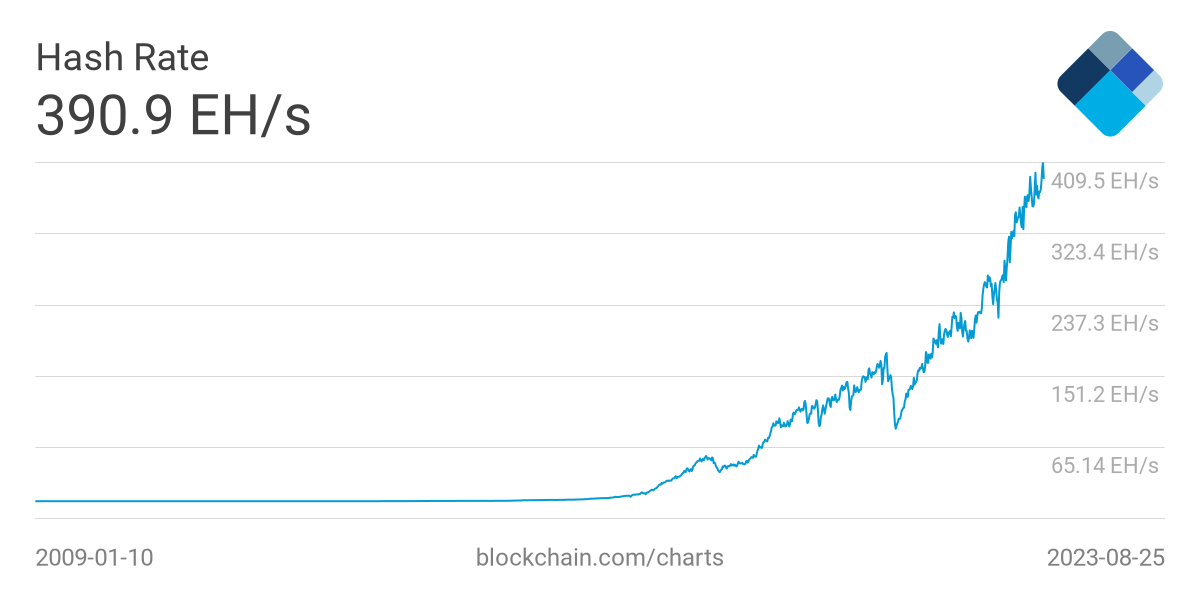
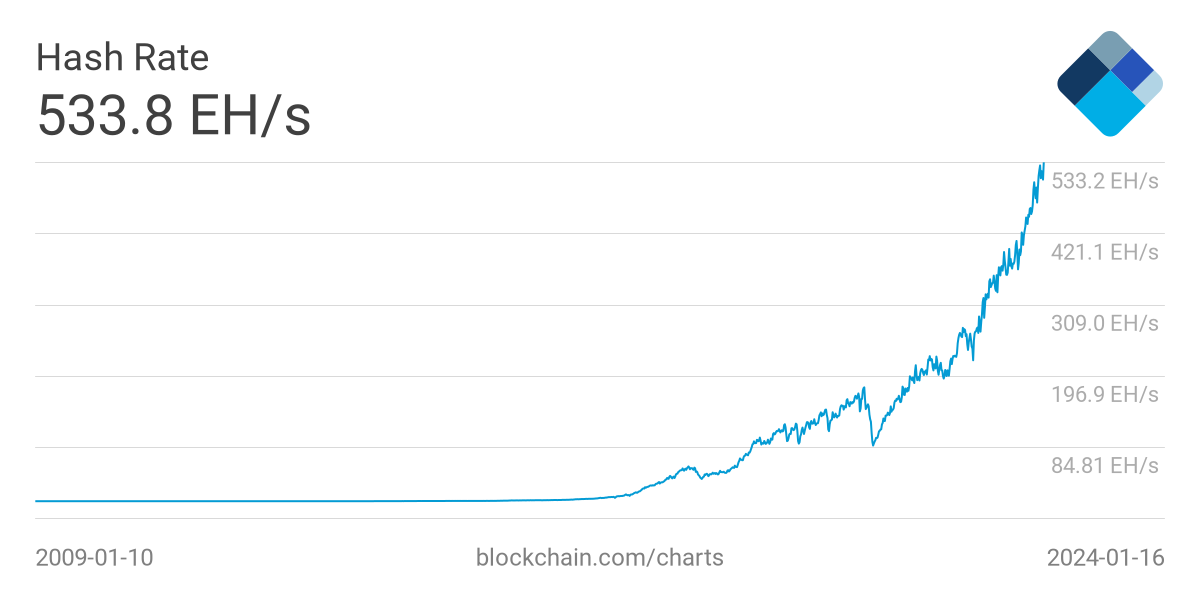
Updated numbers and charts in overview.html

diff --git a/slides/overview.html b/slides/overview.html
@@ -174,8 +174,8 @@ According to Jan Lansky ([source](http://si-journal.org/index.php/JSI/article/vi
 
 
 ## Cryptocurrencies
-- There are 8,906 existing cryptocurrencies (that have value) <!-- change each semester -->
-  - As per [investing.com](https://www.investing.com/crypto/currencies) (as of Aug 27, 2023)
+- There are 8,757 existing cryptocurrencies (that have value) <!-- change each semester -->
+  - As per [investing.com](https://www.investing.com/crypto/currencies) (as of Jan 18, 2024)
 - One estimate is that 100 new ones are created *each day*
   - Most don't make investing.com's list
 - Some are [Ponzi schemes](https://en.wikipedia.org/wiki/Ponzi_scheme), some are [pyramid schemes](https://en.wikipedia.org/wiki/Ponzi_scheme), and some are worthwhile
@@ -204,7 +204,7 @@ According to Jan Lansky ([source](http://si-journal.org/index.php/JSI/article/vi
 <!-- .slide: class="right-float-img-nb-300" -->
 ## A note about numbers...
 [![](../slides/images/overview/bitcoin-coin.webp)](https://commons.wikimedia.org/wiki/File:One_bitcoin_sitting_atop_bundles_of_US_$100_notes.png)
-- The data in this slide set was all updated for the current semester (as of Aug 27, 2023) <!-- change each semester -->
+- The data in this slide set was all updated for the current semester (as of Jan 18, 2024) <!-- change each semester -->
 - Bitcoin is highly volatile (the value changes so fast) that it is likely to be quite different in a day or two
   - Indeed, the value of a Bitcoin changed *during* the updating of the numbers!
     - So you will see (slightly) different values for the price, for example
@@ -290,8 +290,8 @@ From [blockchain.com](https://blockchain.com); BTC peaked at $68,789 in November
 - The first block was the "genesis block"
 - Each successive block includes the SHA-256 hash of the previous block
   - Thus, you can't make a change to a previous block without changing all successive blocks
-- The current blockchain (as of Aug 27, 2023) is  805,090 blocks (aka 'height'; [source](https://bitinfocharts.com/))
-  - About 494 Gb in size ([source](https://www.blockchain.com/charts/blocks-size))
+- The current blockchain (as of Jan 18, 2024) is  826,343 blocks (aka 'height'; [source](https://bitinfocharts.com/))
+  - About 530 Gb in size ([source](https://www.blockchain.com/charts/blocks-size))
 <!-- change each semester (be sure to divide that number by 1024) -->
 
 
@@ -363,21 +363,20 @@ From [blockchain.com](https://blockchain.com); BTC peaked at $68,789 in November
 ## Difficulty
 - First target ($ft$): 00000000ffff00000000000000 00000000000000000000000000000000000000
 <!-- formula: ft=26959535291011309493156476344723991336010898738574164086137773096960 -->
-- The current target ($ct$) is  0000000000000000000561020000000 000000000000000000000000000000000
-<!-- formula: ct=515199788182065911307653755120147792390991404454641664 -->
-  - As of Aug 27, 2023 and can be found [here](http://learnmeabitcoin.com/glossary/target)
-    - That site is almost 5,000 blocks behind...
+- The current target ($ct$) is 00000000000000000003d8690000000 000000000000000000000000000000000
+<!-- formula: ct=368311566122123513513592411007997767500471904222838784 -->
+  - As of Jan 18, 2024 and derived from [here](https://blockstream.info)
   <!-- change each semester -->
-  - The new target is harder than the old: specifically $ft/ct$ = 52,328,312,063,444 times harder (that's 52.3 *trillion*)
-    - Actually it's about 55.6 trillion now<!-- set this value to diff, such as via the formula: diff=55.62*10^12 -->
+  - The new target is harder than the old: specifically $ft/ct$ = 73,197,634,206,448 times harder (that's 73.2 *trillion*)
 - This number is the bitcoin *difficulty*, and the latest value can be found [here](https://www.coinwarz.com/mining/bitcoin/difficulty-chart)
+<!-- formula: diff=ft/ct -->
 
 
 
 ## Current hash difficulty
 - For the first target, a random nonce had a 1 in 4.3 billion chance of success
-- The current target is 55.6 trillion times harder
-  - A random nonce now has a 1 in $2.39 \times 10^{23}$ chance of success
+- The current target is 73.2 trillion times harder
+  - A random nonce now has a 1 in $3.14 \times 10^{23}$ chance of success
     <!-- change each semester; formula: chance=diff*2^32 -->
 
 
@@ -387,9 +386,11 @@ From [blockchain.com](https://blockchain.com); BTC peaked at $68,789 in November
 ![](https://upload.wikimedia.org/wikipedia/commons/4/48/Gigabyte_GTX_970_Windforce.jpg)
 - A typical CPU can do maybe 10 Mhash/sec (million hashes per second)
   - A very fast CPU today could do about 25 Mhash/sec
-  - A [$1,500 video card](https://www.amazon.com/gp/product/B07GHXQTGZ/) today could do about 800 Mhash/sec (estimate based on [this](https://en.bitcoin.it/wiki/Non-specialized_hardware_comparison#Nvidia) and [this](https://gpu.userbenchmark.com/Compare/Nvidia-RTX-2080-vs-Nvidia-GeForce-GTX-590-SLI-Disabled/4026vsm8041))
-- Consider a 1 in $2.39 \times 10^{23}$ chance of success
-- To generate $2.39 \times 10^{23}$ hashes at 800 million (8 Mhash) per second on a fast graphics card, this will take 9.5 *million years*
+  - A [$1,500 video card](https://www.amazon.com/gp/product/B07GHXQTGZ/) today could do about 1 Ghash/sec (estimate based on [this](https://en.bitcoin.it/wiki/Non-specialized_hardware_comparison#Nvidia) and [this](https://gpu.userbenchmark.com/Compare/Nvidia-RTX-2080-vs-Nvidia-GeForce-GTX-590-SLI-Disabled/4026vsm8041))
+    - That's 40 times faster than a CPU
+- Consider a 1 in $3.14 \times 10^{23}$ chance of success
+- To generate $3.14 \times 10^{23}$ hashes at 800 million (8 Mhash) per second on a fast graphics card, this will take 12.5 *million years*
+  - A CPU is 40 times longer: about 500 *million years*
   <!-- change each semester; formula: gpuyears=chance/(365.25*24*60*60*800*10^6) -->
 
 
@@ -399,7 +400,7 @@ From [blockchain.com](https://blockchain.com); BTC peaked at $68,789 in November
 ![](https://upload.wikimedia.org/wikipedia/commons/6/6b/Electricity_pylons2.jpg)
 - A graphics card uses about 400 W (watts) (estimated from [here](https://en.bitcoin.it/wiki/Non-specialized_hardware_comparison#Nvidia))
 - Electricity in Charlottesville costs 11.04 cents per kW/h (as per [here](https://www.electricitylocal.com/states/virginia/charlottesville/))
-- This would cost about 3.7 billion dollars <!-- change each semester; formula: elecost=gpuyears*400/1000*24*365.25*0.1104 -->
+- This would cost about 4.8 billion dollars <!-- change each semester; formula: elecost=gpuyears*400/1000*24*365.25*0.1104 -->
 
 
 
@@ -451,12 +452,12 @@ From [blockchain.com](https://blockchain.com); BTC peaked at $68,789 in November
 
 
 ## Reward per block
-- The current reward (as of Aug 27, 2023) is 6.25 BTC
+- The current reward (as of Jan 18, 2024) is 6.25 BTC
   <!-- change each semester -->
   - Plus transaction fees of around 0.1 BTC or so
-  - The estimated date when it drops to 3.125 BTC is April 2024 ([source](https://www.bitcoinblockhalf.com/))
-- At a price of about $26k per block ([source](https://www.coindesk.com/price/bitcoin)), 6.35 BTC is  about $166k for a properly signed block   <!-- change each semester --><!-- formula: reward=166*1000 -->
-  - But if it costs almost 4 billion dollars in electricity, perhaps it's not all that worth it
+  - The estimated date when it drops to 3.125 BTC is late April 2024 ([source](https://www.bitcoinblockhalf.com/))
+- At a price of about $41k per block ([source](https://www.coindesk.com/price/bitcoin)), 6.35 BTC is about $256k for a properly signed block   <!-- change each semester -->
+  - But if it costs almost 5 billion dollars in electricity, perhaps it's not all that worth it
   - Unless you use somebody else's electricity...
 
 
@@ -481,7 +482,7 @@ From [blockchain.com](https://blockchain.com); BTC peaked at $68,789 in November
 ## Hashes per second
 From [blockchain.com](https://www.blockchain.com/charts/hash-rate), and for the entire Bitcoin network; E = exa = $10^{18}$
 <!-- change each semester -->
-<!-- formula: hashrate=390.9*10^18 -->
+<!-- formula: hashrate=534*10^18 -->
 ![hashes per second](images/timely/btc-hashes-per-sec.webp)
 
 
@@ -491,7 +492,7 @@ From [blockchain.com](https://www.blockchain.com/charts/hash-rate), and for the 
 ![](https://m.media-amazon.com/images/I/61WsmRwaOaL._AC_SL1000_.jpg)
 - A whole industry has sprung up: you can find the hardware online (such as [here](https://www.bitcoinmining.com/bitcoin-mining-hardware/))
 - These devices are much faster and use much less electricity
-- Consider the [DragonX AntMiner S19](https://www.amazon.com//dp/B08ZNMGKZ1/), which costs `$`1,200 (as of Aug 27, 2023)
+- Consider the [DragonX AntMiner S19](https://www.amazon.com//dp/B08ZNMGKZ1/), which costs `$`1,200 (as of Jan 18, 2024)
   - It can compute 90 Thash/sec (tera), or $90 \ast 10^{12}=9 \ast 10^{13}$ hash/sec
   - I don't believe their numbers that they posted at that link, though
 
@@ -510,40 +511,40 @@ From [blockchain.com](https://www.blockchain.com/charts/hash-rate), and for the 
 ## [DragonX AntMiner S19](https://www.amazon.com/dp/B08ZNMGKZ1) analysis
 <!-- change each semester -->
 - We know that:
-  - The current hash rate is about 391 EH/s
-  - Blocks take about 10 minutes to process (actually about 12m 6s right now ([source](https://bitinfocharts.com/)))
+  - The current hash rate is about 534 EH/s
+  - Blocks take about 10 minutes to process (actually about 9m 56s right now ([source](https://bitinfocharts.com/)))
   - The [DragonX AntMiner S19](https://www.amazon.com/dp/B08ZNMGKZ1) claims to hash 90 TH/s <!-- formula: minerrate=90*10^12 -->
-- 391 exa / 90 tera = $391 \cdot 10^{18} / 90 \cdot 10^{12} = 4.34 \cdot 10^{6}$ or 4 million <!-- formula: blockreward=hashrate/minerrate -->
-- Thus, you would expect to get one 4-millionth of a block's reward in a pooled setup <!-- formula: profitperblock=reward/blockreward -->
-- At `$`166 per block, that's about 3.8 *cents* per block
+- 534 exa / 90 tera = $534 \cdot 10^{18} / 90 \cdot 10^{12} = 5.93 \cdot 10^{6}$ or about 6 million <!-- formula: blockreward=hashrate/minerrate -->
+- Thus, you would expect to get one 6-millionth of a block's reward in a pooled setup <!-- formula: profitperblock=reward/blockreward -->
+- At `$`256 per block, that's about 4.3 *cents* per block
 - (And we aren't counting electricity here)
 
 
 
 ## [DragonX AntMiner S19](https://www.amazon.com/dp/B08ZNMGKZ1) analysis
 <!-- change each semester -->
-- At `$`166 per block, that's about 3.8 cents per block
-  - Which is $5.50 per day <!-- formula: profitperday=profitperblock*24*6 -->
+- At `$`256 per block, that's about 4.3 cents per block
+  - Which is $6.22 per day <!-- formula: profitperday=profitperblock*24*6 -->
     - This assumes 10 minute blocks; it's a less with 12m6s blocks
-  - You will make back your initial investment of `$`1,200 (plus tax) 220 days
-    - That's 7.3 months
+  - You will make back your initial investment of `$`1,200 (plus tax) 192 days <!-- formula: payoffdays=1200/profitperday -->
+    - That's 6.5 months
 - This assumes that the numbers don't change!
   - And that you aren't paying for electricity
-  - And we know the reward per block will go down in April of 2024...
+  - And we know the reward per block will go down in late April of 2024...
 - There is also [one available](https://www.amazon.com/dp/B0CCK4RDJF/) that mines twice times as fast but costs 3.5 times as much, but uses less power
 
 
 
 ## [DragonX AntMiner S19](https://www.amazon.com/dp/B08ZNMGKZ1) analysis
 <!-- change each semester -->
-- You will make $5.50 in BTC per day
+- You will make $6.22 in BTC per day
 - But... electricity is not free
 - Stated power usage: 3,250 W or 3.25 kW
   - Over 24 hours that's $24 * 3.25 = 78$ kWh
   - At Charlottesville's rate of 11.04&cent; per kWh, that's `$`8.61 per day
     - About `$`260 per month
-- So your total daily profit is: `$`5.50 - `$`8.61 or
-  - *Negative* `$`3.11 cents per day!
+- So your total daily profit is: `$`6.22 - `$`8.61 or
+  - *Negative* `$`2.39 cents per day!
 
 
 

diff --git a/slides/images/timely/readme.html b/slides/images/timely/readme.html
@@ -64,10 +64,10 @@
 </ul>
 <p>From the <a href="../../overview.html#/">overview slide set</a>. These should be exported as svg if possible; if not, then 1200x600 rasterized and converted to webp (running <code>make</code> will covert .png files to .webp).</p>
 <ul>
-<li>Bitcoin price, all-time / raw values (<code>btc-price.webp</code>), from <a href="https://www.blockchain.com/charts/market-price">blockchain.com</a>: from <a href="btc-price-2022-01-17.png">2022-01-17</a>, <a href="btc-price-2022-08-23.webp">2022-08-23</a>, <a href="btc-price-2023-01-17.webp">2023-01-17</a>, <a href="btc-price.webp">2023-08-27</a></li>
-<li>Bitcoin difficulty, all-time / raw values (<code>btc-difficulty-all-time.webp</code>), from <a href="https://www.blockchain.com/en/charts/difficulty">blockchain.com</a>: from <a href="btc-difficulty-all-time-2022-01-17.png">2022-01-17</a>, <a href="btc-difficulty-all-time-2022-08-23.webp">2022-08-23</a>, <a href="btc-difficulty-all-time-2023-01-17.webp">2023-01-17</a>, <a href="btc-difficulty-all-time.webp">2023-08-27</a></li>
-<li>Bitcoin difficulty, last 3 years / raw values (<code>btc-difficulty-last-3-years.webp</code>), from <a href="https://www.blockchain.com/en/charts/difficulty">blockchain.com</a>: from <a href="btc-difficulty-last-3-years-2022-01-17.png">2022-01-17</a>, <a href="btc-difficulty-last-3-years-2022-08-23.webp">2022-08-23</a>, <a href="btc-difficulty-last-3-years-2023-01-17.webp">2023-01-17</a>, <a href="btc-difficulty-last-3-years.webp">2023-08-27</a></li>
-<li>Bitcoin hashes per second, all-time / 7-day average (<code>btc-hashes-per-sec.webp</code>), from <a href="https://www.blockchain.com/charts/hash-rate">blockchain.com</a>: from <a href="btc-hashes-per-sec-2022-01-17.png">2022-01-17</a>, <a href="btc-hashes-per-sec-2022-08-23.webp">2022-08-23</a>, <a href="btc-hashes-per-sec-2023-01-17.webp">2023-01-17</a>, <a href="btc-hashes-per-sec.webp">2023-08-27</a></li>
+<li>Bitcoin price, all-time / raw values (<code>btc-price.webp</code>), from <a href="https://www.blockchain.com/charts/market-price">blockchain.com</a>: from <a href="btc-price-2022-01-17.png">2022-01-17</a>, <a href="btc-price-2022-08-23.webp">2022-08-23</a>, <a href="btc-price-2023-01-17.webp">2023-01-17</a>, <a href="btc-price-2023-08-27.webp">2023-08-27</a>, <a href="btc-price.webp">2024-01-18</a></li>
+<li>Bitcoin difficulty, all-time / raw values (<code>btc-difficulty-all-time.webp</code>), from <a href="https://www.blockchain.com/en/charts/difficulty">blockchain.com</a>: from <a href="btc-difficulty-all-time-2022-01-17.png">2022-01-17</a>, <a href="btc-difficulty-all-time-2022-08-23.webp">2022-08-23</a>, <a href="btc-difficulty-all-time-2023-01-17.webp">2023-01-17</a>, <a href="btc-difficulty-all-time-2023-08-27.webp">2023-08-27</a>, <a href="btc-difficulty-all-time.webp">2024-01-18</a></li>
+<li>Bitcoin difficulty, last 3 years / raw values (<code>btc-difficulty-last-3-years.webp</code>), from <a href="https://www.blockchain.com/en/charts/difficulty">blockchain.com</a>: from <a href="btc-difficulty-last-3-years-2022-01-17.png">2022-01-17</a>, <a href="btc-difficulty-last-3-years-2022-08-23.webp">2022-08-23</a>, <a href="btc-difficulty-last-3-years-2023-01-17.webp">2023-01-17</a>, <a href="btc-difficulty-last-3-years-2023-08-27.webp">2023-08-27</a>, <a href="btc-difficulty-last-3-years.webp">2024-01-18</a></li>
+<li>Bitcoin hashes per second, all-time / 7-day average (<code>btc-hashes-per-sec.webp</code>), from <a href="https://www.blockchain.com/charts/hash-rate">blockchain.com</a>: from <a href="btc-hashes-per-sec-2022-01-17.png">2022-01-17</a>, <a href="btc-hashes-per-sec-2022-08-23.webp">2022-08-23</a>, <a href="btc-hashes-per-sec-2023-01-17.webp">2023-01-17</a>, <a href="btc-hashes-per-sec-2023-08-27.webp">2023-08-27</a>, <a href="btc-hashes-per-sec.webp">2024-01-18</a></li>
 </ul>
 <p>From the <a href="../../bitcoin.html#/">Bitcoin slide set</a></p>
 <ul>

diff --git a/slides/bitcoin.html b/slides/bitcoin.html
@@ -249,20 +249,20 @@ Given a Merkle tree:
 
 ## Unix time conversion
 - In Python:
-  ```
+```
 import datetime
 print(datetime.datetime.utcfromtimestamp(1640995200).\
         strftime('%Y-%m-%d %H:%M:%S'))
 ```
 - In Java:
-  ```
+```
 import java.util.Date;
 ...
 Date d = new Date(1640995200);
 System.out.println(d);
 ```
 - In C/C++:
-  ```
+```
 #include <time.h>
 ...
   time_t t = 1640995200;

diff --git a/slides/images/timely/readme.md b/slides/images/timely/readme.md
@@ -11,10 +11,10 @@ From the [course introduction slide set](../../../uva/introduction.html#/):
 
 From the [overview slide set](../../overview.html#/).  These should be exported as svg if possible; if not, then 1200x600 rasterized and converted to webp (running `make` will covert .png files to .webp).
 
-- Bitcoin price, all-time / raw values (`btc-price.webp`), from [blockchain.com](https://www.blockchain.com/charts/market-price): from [2022-01-17](btc-price-2022-01-17.png), [2022-08-23](btc-price-2022-08-23.webp), [2023-01-17](btc-price-2023-01-17.webp), [2023-08-27](btc-price.webp)
-- Bitcoin difficulty, all-time / raw values  (`btc-difficulty-all-time.webp`), from [blockchain.com](https://www.blockchain.com/en/charts/difficulty): from [2022-01-17](btc-difficulty-all-time-2022-01-17.png), [2022-08-23](btc-difficulty-all-time-2022-08-23.webp), [2023-01-17](btc-difficulty-all-time-2023-01-17.webp), [2023-08-27](btc-difficulty-all-time.webp)
-- Bitcoin difficulty, last 3 years / raw values (`btc-difficulty-last-3-years.webp`), from [blockchain.com](https://www.blockchain.com/en/charts/difficulty): from [2022-01-17](btc-difficulty-last-3-years-2022-01-17.png), [2022-08-23](btc-difficulty-last-3-years-2022-08-23.webp), [2023-01-17](btc-difficulty-last-3-years-2023-01-17.webp), [2023-08-27](btc-difficulty-last-3-years.webp)
-- Bitcoin hashes per second, all-time / 7-day average (`btc-hashes-per-sec.webp`), from [blockchain.com](https://www.blockchain.com/charts/hash-rate): from [2022-01-17](btc-hashes-per-sec-2022-01-17.png), [2022-08-23](btc-hashes-per-sec-2022-08-23.webp), [2023-01-17](btc-hashes-per-sec-2023-01-17.webp), [2023-08-27](btc-hashes-per-sec.webp)
+- Bitcoin price, all-time / raw values (`btc-price.webp`), from [blockchain.com](https://www.blockchain.com/charts/market-price): from [2022-01-17](btc-price-2022-01-17.png), [2022-08-23](btc-price-2022-08-23.webp), [2023-01-17](btc-price-2023-01-17.webp), [2023-08-27](btc-price-2023-08-27.webp), [2024-01-18](btc-price.webp)
+- Bitcoin difficulty, all-time / raw values  (`btc-difficulty-all-time.webp`), from [blockchain.com](https://www.blockchain.com/en/charts/difficulty): from [2022-01-17](btc-difficulty-all-time-2022-01-17.png), [2022-08-23](btc-difficulty-all-time-2022-08-23.webp), [2023-01-17](btc-difficulty-all-time-2023-01-17.webp), [2023-08-27](btc-difficulty-all-time-2023-08-27.webp), [2024-01-18](btc-difficulty-all-time.webp)
+- Bitcoin difficulty, last 3 years / raw values (`btc-difficulty-last-3-years.webp`), from [blockchain.com](https://www.blockchain.com/en/charts/difficulty): from [2022-01-17](btc-difficulty-last-3-years-2022-01-17.png), [2022-08-23](btc-difficulty-last-3-years-2022-08-23.webp), [2023-01-17](btc-difficulty-last-3-years-2023-01-17.webp), [2023-08-27](btc-difficulty-last-3-years-2023-08-27.webp), [2024-01-18](btc-difficulty-last-3-years.webp)
+- Bitcoin hashes per second, all-time / 7-day average (`btc-hashes-per-sec.webp`), from [blockchain.com](https://www.blockchain.com/charts/hash-rate): from [2022-01-17](btc-hashes-per-sec-2022-01-17.png), [2022-08-23](btc-hashes-per-sec-2022-08-23.webp), [2023-01-17](btc-hashes-per-sec-2023-01-17.webp), [2023-08-27](btc-hashes-per-sec-2023-08-27.webp), [2024-01-18](btc-hashes-per-sec.webp)
 
 From the [Bitcoin slide set](../../bitcoin.html#/)
 
